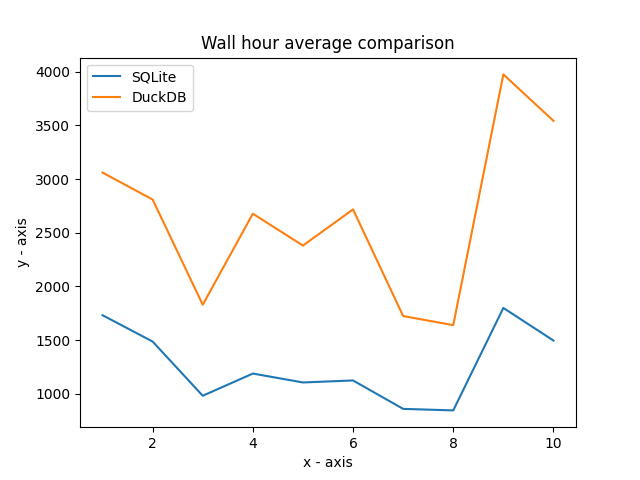
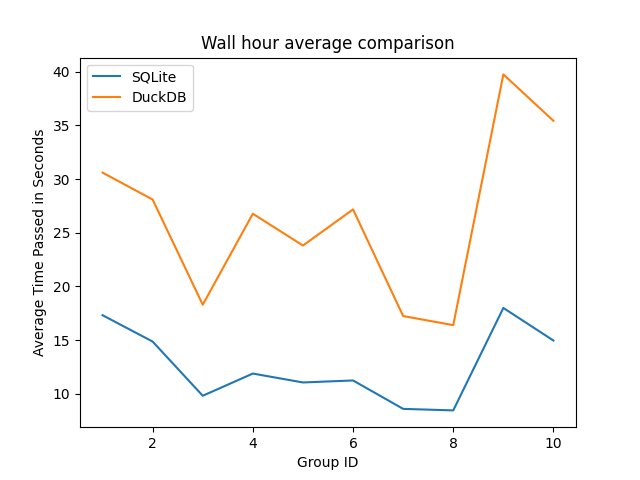
Changed Experiment1 graphs

diff --git a/Results/plotting.py b/Results/plotting.py
@@ -60,7 +60,7 @@ def find_average(input):
 
     average_list = []
     for array in input:
-        average_list.append(np.array(array).sum())
+        average_list.append(np.array(array).sum()/len(array))
 
     return average_list
 
@@ -86,9 +86,9 @@ def results_1K_average():
     plt.plot(x_axis, wall_duckdb_average, label= "DuckDB")
 
     # naming the x axis
-    plt.xlabel('x - axis')
+    plt.xlabel('Group ID')
     # naming the y axis
-    plt.ylabel('y - axis')
+    plt.ylabel('Average Time Passed in Seconds')
     # giving a title to my graph
     plt.title('Wall hour average comparison')
     
@@ -226,5 +226,4 @@ def compare_lookupwik_query():
     plt.show()
 
 
-compare_lookup_query()
-compare_lookupwik_query()
+results_1K_average()
